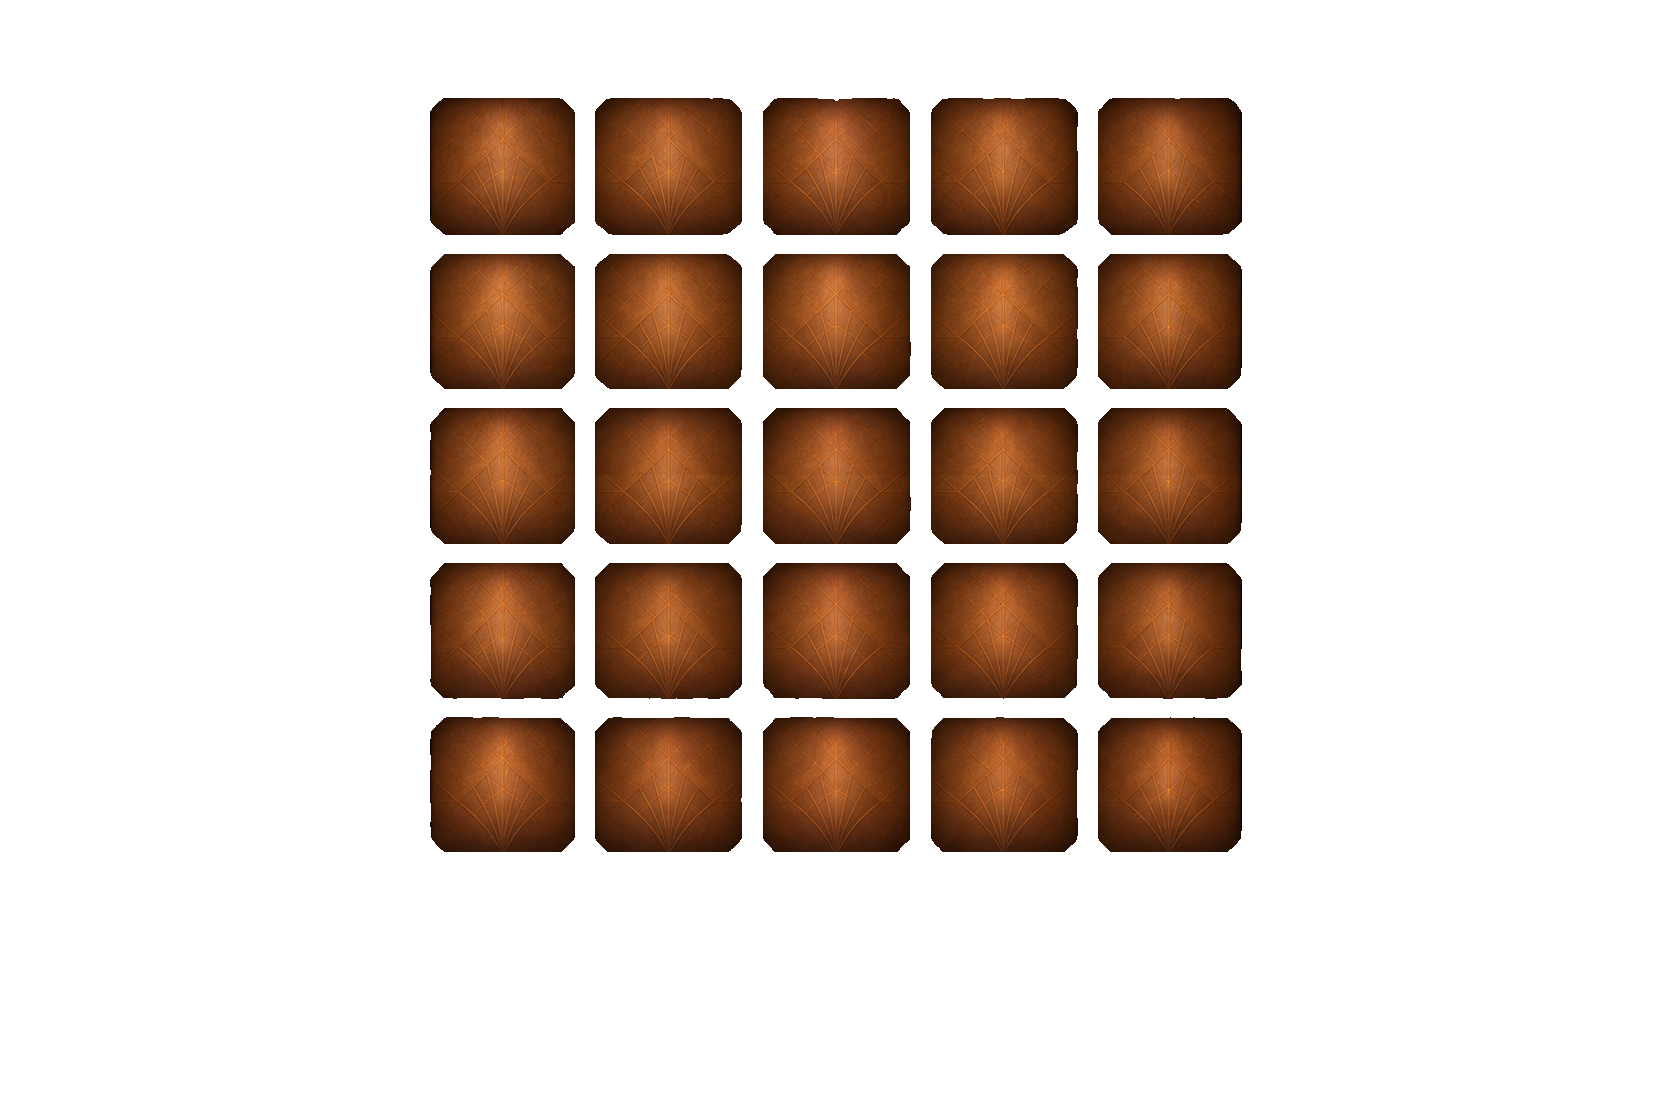
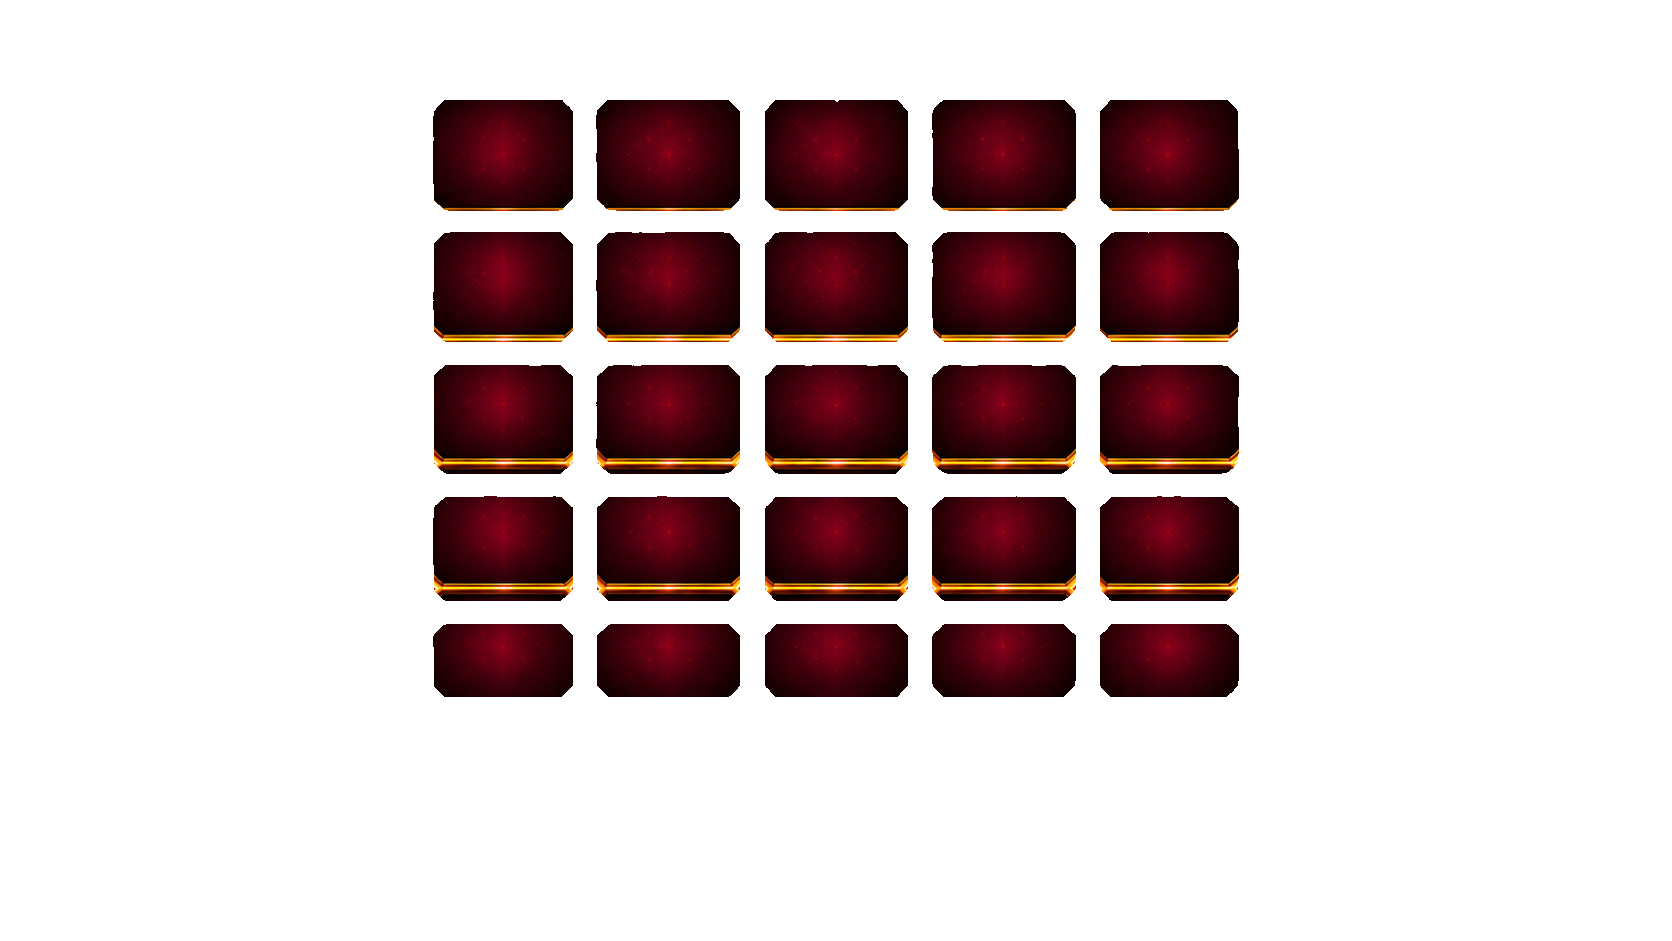
fix: true 5x5 slot frame, per-window tier tiles, symbols above the frame with tier sizes, woman tone and position

Changed region(s): [[0.2488, 0.0616, 0.7464, 0.8013]]

diff --git a/frontend/apps/poc/src/components/skyjump_v2/SkyJumpV2Board.svelte b/frontend/apps/poc/src/components/skyjump_v2/SkyJumpV2Board.svelte
@@ -23,6 +23,7 @@
 		v2SymbolVisual,
 		v2RollingAssetUrls,
 	v2SymbolBlurUrl,
+	v2SymbolTier,
 	v2TileUrl,
 } from '../../game/skyjump_v2/symbolAssetRegistry';
 	import {
@@ -39,7 +40,12 @@
 	} from '../../game/skyjump_v2/winPresentation';
 	import { reactToWin } from '../../game/loungeCharacters/winReaction';
 	import { statusLabel as playerLabel, statusSub as playerSub } from '../../game/skyjump_v2/statusText';
-	import { V2_PAYLINE_FX, V2_SLOT_BOARD_FRAME } from '../../game/skyjump_v2/presentationLayout';
+	import {
+		V2_FRAME_WINDOWS,
+		V2_PAYLINE_FX,
+		V2_SLOT_BOARD_FRAME,
+		V2_TIER_SCALE,
+	} from '../../game/skyjump_v2/presentationLayout';
 	import type { V2BannerKind } from '../../game/skyjump_v2/presentationLayout';
 	import { playV2AudioHook } from '../../game/skyjump_v2/audio';
 	import type { SkyJumpMysteryResultType } from '../../game/typesBookEvent';
@@ -261,14 +267,40 @@
 	const FRAME_BORDER = 0;
 	const gap = 0;
 	const framePad = 0;
-	const cellH = $derived(Math.max(22, Math.round(maxBoardH / 5)));
-	const cellW = $derived(Math.max(22, Math.round(cellH * V2_SLOT_BOARD_FRAME.cellAspect)));
+	/** Slot width (px @1280): the frame art is scaled so the 5x5 playfield is this wide. */
+	const BOARD_GRID_W = 585;
+	const cellW = $derived(Math.max(22, Math.round(px(BOARD_GRID_W) / 5)));
+	const cellH = $derived(Math.max(22, Math.round(cellW / V2_SLOT_BOARD_FRAME.cellAspect)));
 	const boardW = $derived(cellW * 5 + gap * 4);
 	const boardH = $derived(cellH * 5 + gap * 4);
 	/** Edge-to-edge symbol pitch. The old row gutter is inside the slot, not a grid line. */
 	const symbolPitch = $derived(boardH / VISIBLE_ROWS);
 	const surfaceW = $derived(boardW + framePad * 2 + FRAME_BORDER * 2);
 	const surfaceH = $derived(boardH + framePad * 2 + FRAME_BORDER * 2);
+	/** Pixels per art pixel of the frame. */
+	const artK = $derived(cellW / V2_FRAME_WINDOWS.pitch.w);
+	/** Per-cell geometry: the tier tile fills the real window; the symbol is centred on it. Offsets are from the nominal cell. */
+	const cellGeo = (reel: number, row: number) => {
+		const W = V2_FRAME_WINDOWS;
+		const r = Math.min(4, Math.max(0, row));
+		const nx = W.origin.x + W.pitch.w * reel;
+		const ny = W.origin.y + W.pitch.h * r;
+		const hx = W.colX[reel];
+		const hy = W.rowY[r];
+		const tw = W.colW[reel];
+		const th = W.tileH[r];
+		const clip = r === 4 ? ((W.tileH[r] - W.rowH[r]) / W.tileH[r]) * 100 : 0;
+		return {
+			tx: (hx - nx) * artK,
+			ty: (hy - ny) * artK,
+			tw: tw * artK,
+			th: th * artK,
+			clip,
+			dx: (hx + tw / 2 - (nx + W.pitch.w / 2)) * artK,
+			// Symbols sit in the visible window (the last row is a short window under the frame's bottom bar).
+			dy: (hy + W.rowH[r] / 2 - (ny + W.pitch.h / 2)) * artK,
+		};
+	};
 	const slotFrameSrc = loungeSlotFrameSrc;
 	const slotBackSrc = loungeSlotBackSrc;
 	/** Art frame sized so its transparent hole stays centered on the grid, then +10%. */
@@ -1129,11 +1161,12 @@
 					>
 						<div
 							class="reel-strip"
-							style:transform={`translate3d(0, ${spinIds[reel] ? spinOffset[reel] : 0}px, 0)`}
+							style:transform={spinIds[reel] ? `translate3d(0, ${spinOffset[reel]}px, 0)` : undefined}
 						>
 							{#each ids as id, index (`${reel}-${index}-${id}`)}
 								{@const settled = !spinning[reel] && index < VISIBLE_ROWS}
 								{@const rolling = spinning[reel] && reelPace[reel] !== 'land'}
+								{@const geo = cellGeo(reel, settled ? index : 2)}
 								{@const visual = v2SymbolVisual(id)}
 								{@const tile = visual.placeholder}
 								{@const showArt = Boolean(visual.url && artReady[id] && !artBroken[id])}
@@ -1156,6 +1189,7 @@
 										worldRecordPos?.row === index}
 									style:color={tile.ink}
 									data-symbol={id}
+									data-tier={v2SymbolTier(id)}
 									data-row={settled ? index : undefined}
 									data-test={settled ? 'skyjump-v2-tile' : undefined}
 								>
@@ -1164,8 +1198,17 @@
 										src={v2TileUrl(id, rolling)}
 										alt=""
 										draggable="false"
+										style:left={`${geo.tx}px`}
+										style:top={`${geo.ty}px`}
+										style:width={`${geo.tw}px`}
+										style:height={`${geo.th}px`}
+										style:clip-path={geo.clip > 0 ? `inset(0 0 ${geo.clip}% 0)` : undefined}
 									/>
-									<div class="content-stage">
+									<div
+										class="content-stage"
+										style:--tier-scale={V2_TIER_SCALE[v2SymbolTier(id)] ?? 1}
+										style:translate={`${geo.dx}px ${geo.dy}px`}
+									>
 										{#if visual.url && !artBroken[id]}
 											<img
 												class="sym-art"
@@ -1924,9 +1967,10 @@
 		opacity: 0.9;
 	}
 
+	/* No own stacking context: settled reels sit above the frame art (z 6), rolling reels under it. */
 	.grid {
 		position: relative;
-		z-index: 1;
+		z-index: auto;
 		box-sizing: border-box;
 		display: grid;
 		width: var(--board-w);
@@ -1975,6 +2019,31 @@
 		min-width: 0;
 		min-height: 0;
 		overflow: hidden;
+	}
+
+	/* Settled reels: overflow visible, tiles and symbols above the frame art, higher tiers on top. */
+	.reel:not(.spinning) {
+		overflow: visible;
+	}
+
+	.reel:not(.spinning) .symbol {
+		overflow: visible;
+		z-index: 8;
+	}
+
+	.reel:not(.spinning) .symbol[data-tier='medium'] {
+		z-index: 9;
+	}
+
+	.reel:not(.spinning) .symbol[data-tier='premium'],
+	.reel:not(.spinning) .symbol[data-tier='scatter'],
+	.reel:not(.spinning) .symbol[data-tier='concierge_mystery'],
+	.reel:not(.spinning) .symbol[data-tier='feature'] {
+		z-index: 10;
+	}
+
+	.reel:not(.spinning) .content-stage {
+		overflow: visible;
 	}
 
 	.reel-strip {
@@ -2055,12 +2124,10 @@
 		letter-spacing: 0.04em;
 	}
 
-	/* Tier backdrop of the cell: inset by half a gold line so it fills the frame window exactly. */
+	/* Tier backdrop: exactly the frame window (position and size set per cell). */
 	.tile-bg {
 		position: absolute;
-		inset: 6% 6.6%;
-		width: auto;
-		height: auto;
+		max-width: none;
 		object-fit: fill;
 		pointer-events: none;
 		user-select: none;
@@ -2081,6 +2148,8 @@
 
 	.symbol .sym-art {
 		display: block;
+		transform: scale(var(--tier-scale, 1));
+		transform-origin: 50% 50%;
 		width: 100%;
 		height: 100%;
 		margin: 0;

diff --git a/frontend/apps/poc/src/game/skyjump_v2/presentationLayout.ts b/frontend/apps/poc/src/game/skyjump_v2/presentationLayout.ts
@@ -98,15 +98,43 @@ export const V2_PANEL_DECOR = {
  */
 export const V2_SLOT_BOARD_FRAME = {
 	/**
-	 * `slot_background_1/2.png` (1672x1096, 5 rows). The playfield is the 5x5 block of cell pitches:
-	 * the hole union (430..1242 x 98..852) grown by half a gold line on every side
-	 * (pitch 167 x 154.5), so each symbol cell is centred exactly on its frame window.
+	 * `slot_background_1/2.png` (1672x941, 5x5 windows). The playfield is a 5x5 block of nominal cell pitches
+	 * (166.75 x 130.25 art px) centred on the windows; per-cell offsets to the real windows are in V2_FRAME_WINDOWS.
 	 */
-	holeLeft: 0.2507,
-	holeRight: 0.7493,
-	holeTop: 0.081,
-	holeBottom: 0.7858,
+	holeLeft: 0.251,
+	holeRight: 0.7496,
+	holeTop: 0.0961,
+	holeBottom: 0.7882,
 	scale: 1,
-	/** Cell pitch aspect (167 / 154.5). */
-	cellAspect: 1.081,
+	/** Nominal cell pitch aspect (166.75 / 130.25). */
+	cellAspect: 1.28,
 } as const;
+
+/** The frame's real windows in art pixels (1672x941). The last row is cut short by the frame's bottom bar. */
+export const V2_FRAME_WINDOWS = {
+	art: { w: 1672, h: 941 },
+	/** Nominal grid: origin and pitch, art px. */
+	origin: { x: 419.6, y: 90.4 },
+	pitch: { w: 166.75, h: 130.25 },
+	colX: [433, 596, 765, 932, 1100],
+	colW: [140, 144, 143, 144, 139],
+	rowY: [100, 232, 365, 496, 624],
+	/** Visible window height per row. */
+	rowH: [111, 110, 109, 105, 73],
+	/** Full tile height per row (the last row's tile is cut by the frame, not squashed). */
+	tileH: [111, 110, 109, 105, 105],
+} as const;
+
+/**
+ * Symbol size by tier, relative to the cell height. Each regular tier is 1.5x the previous one
+ * (low -> medium -> premium); scatter, Concierge / Mystery and feature symbols match premium.
+ * Settled symbols are drawn above the frame, so they may grow past their window.
+ */
+export const V2_TIER_SCALE: Record<string, number> = {
+	low: 0.6,
+	medium: 0.9,
+	premium: 1.35,
+	scatter: 1.35,
+	concierge_mystery: 1.35,
+	feature: 1.35,
+};

diff --git a/frontend/apps/poc/src/game/loungeCharacters/config.ts b/frontend/apps/poc/src/game/loungeCharacters/config.ts
@@ -135,7 +135,7 @@ export type CharacterPlacement = {
 };
 
 export const CHARACTER_PLACEMENT: Record<CharacterId, CharacterPlacement> = {
-	woman: { heightFrac: 0.606, centerXFrac: 0.8375, bottomFrac: 0.98 },
+	woman: { heightFrac: 0.606, centerXFrac: 0.8615, bottomFrac: 0.98 },
 	// Placed from the first animation frame: the bartender's drink stops at the slot's left edge (his
 	// tray may reach over it); the woman's foot may reach over the slot's right edge, her face never.
 	bartender: { heightFrac: 0.731, centerXFrac: 0.143, bottomFrac: 0.93 },

diff --git a/frontend/apps/poc/src/components/skyjump/LoungeCharacter.svelte b/frontend/apps/poc/src/components/skyjump/LoungeCharacter.svelte
@@ -11,8 +11,8 @@
 	let { character, onwin }: { character: CharacterId; onwin?: (c: WinCategory | null) => void } =
 		$props();
 
-	/** Measured: her frames are 1.7x as bright and contrasty as the bartender's (mean luminance 87 vs 52, spread 67 vs 42). */
-	const WOMAN_TONE = 'brightness(0.6)';
+	/** Matched to the bartender's upper body (the trousers skew his whole-figure mean): luminance mean ~60, spread ~46. */
+	const WOMAN_TONE = 'brightness(0.66) contrast(1.05)';
 
 	const ASPECT = CHARACTER_FRAME[character].w / CHARACTER_FRAME[character].h;
 

diff --git a/docs/midnight-lounge-character-animation.md b/docs/midnight-lounge-character-animation.md
@@ -312,3 +312,12 @@ Fixed after the guideline review (verified against a local mock RGS, a productio
 - While a reel rolls the cells use `tiles_blur/` and `symbols_blur/`; they switch to the sharp art when the reel starts landing.
 - Woman: `brightness(0.6)` (measured: mean luminance 87 vs the bartender's 52). Sky: `background_farthest-sky.png`; clouds: `clouds_prop_v1.png`.
 - `ui_logo_midnight_lounge.png` from the new pack was NOT imported (it is the old Midnight Lounge logo; the SKYNIGHT LOUNGE emblem stays).
+
+## Slot frame v2 (5x5 art), per-window tiles, tier sizes
+
+- `slot_frame_layer1/2.png` (1672x941, true 5x5) replace the stretched 4-row frame. Window rectangles are in `V2_FRAME_WINDOWS`
+  (the bottom row is a short window under the frame's bar): tier tiles are placed and sized per window (last row cut, not squashed).
+- Settled reels are drawn above the frame (tiles z 7, symbols z 8-10 by tier); rolling reels stay under it. `.grid` has no stacking context of its own.
+- Symbol size by tier (`V2_TIER_SCALE`, relative to cell height): low 0.6, medium 0.9, premium 1.35 (x1.5 per regular tier);
+  scatter, concierge/mystery and feature use the premium size.
+- Woman tone: `brightness(0.66) contrast(1.05)` (matched to the bartender's upper body).
